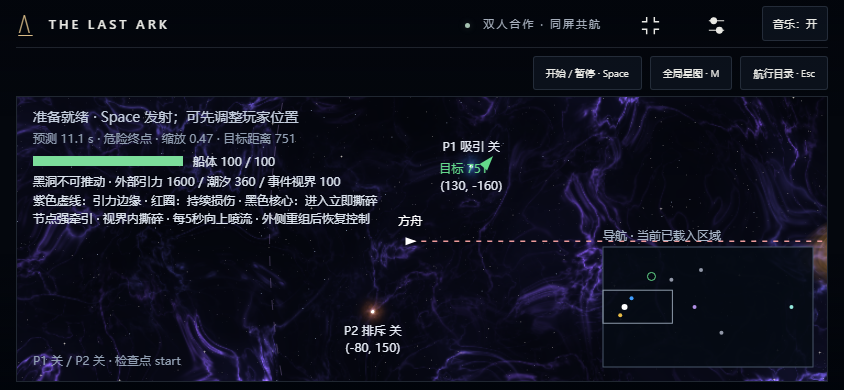
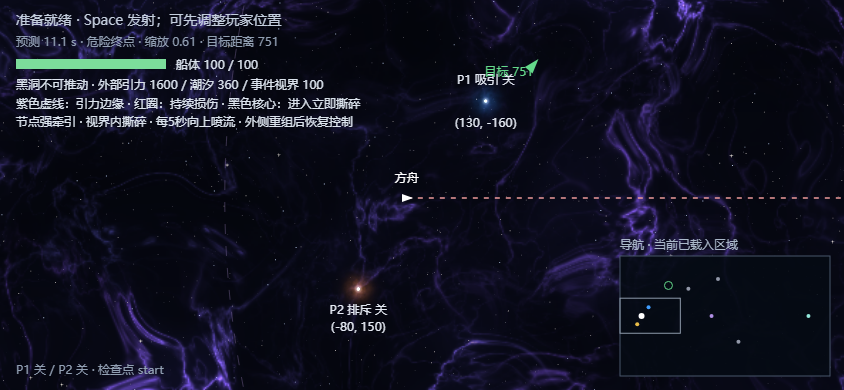
fix: make the game canvas itself fill fullscreen
Request fullscreen on the game canvas, remove surrounding webpage chrome, and move the control into game actions. Preserve Escape exit and existing input and audio state. Verify exact viewport coverage, landscape resizing and high DPI in development and production browsers.

diff --git a/index.html b/index.html
@@ -13,7 +13,7 @@
     <main>
       <header class="masthead">
         <button id="brand-home" class="brand" aria-label="返回封面"><span class="ark-mark" aria-hidden="true">Λ</span><span>THE LAST ARK<small>最后的方舟</small></span></button>
-        <div class="header-right"><span class="connection"><i></i> 双人合作 · 同屏共航</span><button id="fullscreen-toggle" class="icon-button" type="button" aria-label="进入全屏" aria-pressed="false" title="进入全屏"><svg viewBox="0 0 24 24" fill="none" stroke="currentColor" stroke-width="1.5" aria-hidden="true"><path class="fullscreen-expand" d="M8 3H3v5M16 3h5v5M3 16v5h5M21 16v5h-5"/><path class="fullscreen-contract" d="M3 8h5V3M21 8h-5V3M8 21v-5H3M16 21v-5h5"/></svg></button><button id="open-settings" class="icon-button" aria-label="操作设置"><svg viewBox="0 0 24 24" fill="none" stroke="currentColor" stroke-width="1.2" aria-hidden="true"><path d="M4 7h16M4 17h16"/><circle cx="9" cy="7" r="3" fill="currentColor"/><circle cx="15" cy="17" r="3" fill="currentColor"/></svg></button></div>
+        <div class="header-right"><span class="connection"><i></i> 双人合作 · 同屏共航</span><button id="open-settings" class="icon-button" aria-label="操作设置"><svg viewBox="0 0 24 24" fill="none" stroke="currentColor" stroke-width="1.2" aria-hidden="true"><path d="M4 7h16M4 17h16"/><circle cx="9" cy="7" r="3" fill="currentColor"/><circle cx="15" cy="17" r="3" fill="currentColor"/></svg></button></div>
       </header>
 
       <section id="cover" aria-labelledby="cover-title">
@@ -47,7 +47,7 @@
       </section>
 
       <section id="game-shell" hidden aria-label="游戏">
-        <nav class="scene-nav" aria-label="当前章节"><div><span class="eyebrow">IN FLIGHT / 航行中</span><strong id="scene-name"></strong></div><div class="scene-actions"><button id="pause-game" type="button">开始 / 暂停 · Space</button><button id="star-map" type="button" hidden>全局星图 · M</button><button id="next-chapter" type="button" hidden>继续航程</button><button id="back-menu" type="button" hidden>航行目录 · Esc</button></div></nav>
+        <nav class="scene-nav" aria-label="当前章节"><div><span class="eyebrow">IN FLIGHT / 航行中</span><strong id="scene-name"></strong></div><div class="scene-actions"><button id="fullscreen-toggle" type="button" aria-label="游戏画面全屏" aria-pressed="false" title="游戏画面全屏 · Esc 退出">画面全屏</button><button id="pause-game" type="button">开始 / 暂停 · Space</button><button id="star-map" type="button" hidden>全局星图 · M</button><button id="next-chapter" type="button" hidden>继续航程</button><button id="back-menu" type="button" hidden>航行目录 · Esc</button></div></nav>
         <div id="exploration-tools" hidden><label>宇宙 Seed <input id="universe-seed" type="number" min="0" max="4294967295" step="1" value="20261017"></label><button id="new-universe" type="button">开始新探索</button><button id="save-universe" type="button">保存探索 · K</button><button id="load-universe" type="button">恢复探索 · L</button><span id="exploration-notice" role="status"></span></div>
         <section id="lesson" hidden aria-label="当前教学提示"><div id="lesson-progress" class="sr-only"></div><p id="lesson-text" class="sr-only" role="status" aria-live="polite"></p><button id="skip-lesson" type="button" hidden>跳过当前提示（调试）</button></section>
         <p id="telemetry" role="status" aria-live="off"></p>

diff --git a/src/style.css b/src/style.css
@@ -148,24 +148,8 @@ kbd { width: 85px; font-size: 10px; border: 1px solid var(--line); text-align: c
 @media (max-width: 450px) { main { padding: 0 20px; } .cover-description { font-size: 12px; letter-spacing: 3.5px; } .chapter-panel { padding: 2px 0 0; } .panel-heading h3 { font-size: 27px; letter-spacing: 7px; } .journey-count { font-size: 29px; } .level-card { gap: 12px; padding: 17px 14px; } .chapter-number { font-size: 21px; width: 28px; } .chapter-copy strong { font-size: 19px; } .chapter-state { font-size: 13px; } .chapter-description { font-size: 13px; } .menu-notice { font-size: 12.5px; } dialog { padding: 24px 20px; } .device-grid { grid-template-columns: 1fr; gap: 8px; } }
 @media (prefers-reduced-motion: reduce) { *, *::before, *::after { animation: none !important; transition: none !important; scroll-behavior: auto !important; } }
 
-/* Fullscreen keeps navigation/settings available and gives the remaining height to the canvas. */
-#fullscreen-toggle .fullscreen-contract, #fullscreen-toggle[aria-pressed='true'] .fullscreen-expand { display: none; }
-#fullscreen-toggle[aria-pressed='true'] .fullscreen-contract { display: block; }
+/* The canvas itself occupies the entire native fullscreen surface. */
+#game:fullscreen { display: block; width: 100vw; height: 100vh; min-width: 0; min-height: 0; max-width: none; max-height: none; margin: 0; padding: 0; border: 0; border-radius: 0; background: #050a12; outline: none; }
+#game::backdrop { background: #050a12; }
 #fullscreen-notice { position: fixed; bottom: 18px; left: 50%; transform: translateX(-50%); z-index: 50; max-width: calc(100% - 32px); padding: 12px 18px; border: 1px solid var(--line); border-radius: 4px; background: #101b2e; color: #e0c79e; font-size: 13px; }
 #fullscreen-notice:empty { display: none; }
-html:fullscreen { background: #04070d; }
-html:fullscreen body[data-screen='game'] { overflow: hidden; }
-html:fullscreen body[data-screen='game'] main { width: 100%; height: 100dvh; padding: 0 16px; display: flex; flex-direction: column; }
-html:fullscreen body[data-screen='game'] .masthead { height: 48px; flex: 0 0 48px; }
-html:fullscreen body[data-screen='game'] .brand small, html:fullscreen body[data-screen='game'] .scene-nav .eyebrow { display: none; }
-html:fullscreen body[data-screen='game'] .ark-mark { font-size: 25px; }
-html:fullscreen #game-shell { flex: 1; min-height: 0; padding: 8px 0; display: flex; flex-direction: column; gap: 6px; }
-html:fullscreen .scene-nav { flex-direction: row; align-items: center; flex-shrink: 0; }
-html:fullscreen .scene-nav strong { margin-top: 0; font-size: 12px; }
-html:fullscreen #telemetry { margin: 0; min-height: 15px; }
-html:fullscreen .game-frame { flex: 1; min-height: 0; padding: 0; overflow: hidden; }
-html:fullscreen #game { width: 100%; height: 100%; min-height: 0; }
-html:fullscreen #controls { padding: 2px 0; gap: 10px; border: 0; font-size: 10px; }
-html:fullscreen body[data-screen='game'] .site-footer, html:fullscreen #help, html:fullscreen #debug, html:fullscreen #art-debug, html:fullscreen #hazard-debug { display: none; }
-@media (max-width: 450px) { .brand { font-size: 11px; letter-spacing: 1.5px; gap: 8px; } .brand small { letter-spacing: 3px; } .header-right { gap: 5px; } .header-right .icon-button { width: 30px; } }
-@media (max-height: 540px), (max-width: 600px) { html:fullscreen #controls, html:fullscreen #telemetry, html:fullscreen .scene-nav > div:first-child { display: none; } html:fullscreen .scene-nav { justify-content: flex-end; } }

diff --git a/src/render/fullscreen.ts b/src/render/fullscreen.ts
@@ -1,14 +1,14 @@
 /** Fullscreen belongs to presentation; simulation and camera scaling stay in main. */
-export function mountFullscreen(button: HTMLButtonElement, notice: HTMLElement, onChange: () => void) {
-  const doc = button.ownerDocument, root = doc.documentElement;
+export function mountFullscreen(canvas: HTMLCanvasElement, button: HTMLButtonElement, notice: HTMLElement, onChange: () => void) {
+  const doc = canvas.ownerDocument;
   let pending = false, disposed = false, wasFullscreen = !!doc.fullscreenElement, exitedAt = -Infinity;
   let noticeTimer: ReturnType<typeof setTimeout> | undefined;
-  const supported = !!doc.fullscreenEnabled && typeof root.requestFullscreen === 'function';
+  const supported = !!doc.fullscreenEnabled && typeof canvas.requestFullscreen === 'function';
   function sync() {
     const active = !!doc.fullscreenElement;
     button.setAttribute('aria-pressed', String(active));
-    button.setAttribute('aria-label', active ? '退出全屏' : '进入全屏');
-    button.title = supported ? (active ? '退出全屏 · Esc' : '进入全屏') : '当前浏览器不支持全屏';
+    button.setAttribute('aria-label', active ? '退出游戏画面全屏' : '游戏画面全屏');
+    button.title = supported ? (active ? '退出游戏画面全屏 · Esc' : '游戏画面全屏 · Esc 退出') : '当前浏览器不支持全屏';
     button.disabled = !supported || pending;
   }
   function showFailure() {
@@ -22,7 +22,7 @@ export function mountFullscreen(button: HTMLButtonElement, notice: HTMLElement, 
     pending = true; notice.textContent = ''; sync();
     try {
       if (doc.fullscreenElement) await doc.exitFullscreen();
-      else await root.requestFullscreen();
+      else if (!canvas.hidden) await canvas.requestFullscreen();
     } catch { showFailure(); }
     finally { pending = false; if (!disposed) sync(); }
   }

diff --git a/src/main.ts b/src/main.ts
@@ -146,7 +146,7 @@ function resize(): void {
   canvas.width = Math.round(rect.width * dpr); canvas.height = Math.round(rect.height * dpr);
 }
 const observer = new ResizeObserver(resize); observer.observe(canvas); resize();
-const fullscreen = mountFullscreen(document.querySelector<HTMLButtonElement>('#fullscreen-toggle')!, document.querySelector<HTMLElement>('#fullscreen-notice')!, () => {
+const fullscreen = mountFullscreen(canvas, document.querySelector<HTMLButtonElement>('#fullscreen-toggle')!, document.querySelector<HTMLElement>('#fullscreen-notice')!, () => {
   inputs.releaseMovement(); keyboard.releaseKeys(); clock.reset();
   if (scenes.game && !ui.settingsOpen()) canvas.focus({preventScroll:true});
 });

diff --git a/docs/ui-import/README.md b/docs/ui-import/README.md
@@ -20,7 +20,7 @@
 - 动态星空封面、启程入口、章节目录、故事航线与自由回溯。
 - 章节解锁与进度保存、操作设置弹窗、暂停与返回按钮。
 - BGM 保持同一音频实例跨菜单/场景播放，右上角保留音乐开关。
-- 右上角四角图标进入/退出全屏，封面、目录和游戏内均可使用。游戏全屏时画布占满剩余高度，保留设置和航行按钮；Esc 先退出全屏，不同时离开当前关卡。设置弹窗打开时先处理弹窗。
+- 进入关卡后点击「画面全屏」，游戏 canvas 本身铺满整个屏幕，网页导航与说明均不显示。Esc 退出后保留当前关卡；Space、M 及双人控制继续可用。
 - 现有黑洞吸积盘、危险机制、太阳波、虫洞渲染与双人控制代码保留。118 个备份文件逐个文本比对相同；其余变化仅为 UI 合并和测试兼容修复。详见 source-and-preservation.json。
 
 ## 验证
@@ -28,7 +28,7 @@
 - npm run check：31 个测试文件、473 项测试通过，TypeScript 与 Vite 生产构建通过。
 - Edge 浏览器实测：封面、章节锁、教程入口、设置窗口、Escape 关闭、弹窗键盘隔离、音乐跨场景连续播放、循环与开关、390px 窄屏无横向溢出。15 项断言通过，运行时错误 0。
 - 生产构建另行验证，详见 production-verification.json。测试时的临时进度数据已恢复。
-- 全屏浏览器验收：13 项断言通过，包含原生全屏进入/退出、画布分辨率、低高度横屏、设置弹窗、音乐实例保持和请求失败提示。详见 fullscreen-verification.json 与 fullscreen-game.png。
+- 画面全屏浏览器验收：开发版与生产版分别 14 项断言通过。画布起点为 (0, 0)，宽高精确等于视口，四角均为游戏画面；同时验证 Esc、星图、高 DPI、横屏、音乐保持和失败重试。详见 fullscreen-verification.json、canvas-fullscreen-production.json 和 fullscreen-game.png。
 - 旧特效关闭基线：太阳系/黑洞冷缓存与热缓存均为 0 个字节差异；两端喷流在三档缩放下均可见；虫洞轨迹仍可辨。
 - 截图：cover.png、chapters.png、settings.png、tutorial.png、cover-mobile.png、chapters-mobile.png、black-hole-game.png。
 

diff --git a/docs/ui-import/FULLSCREEN.md b/docs/ui-import/FULLSCREEN.md
@@ -1,7 +1,7 @@
 # 全屏模式
 
-封面、章节目录及游戏右上角的四角按钮切换浏览器原生全屏。进入全屏后，游戏会缩短顶部栏，将剩余高度分配给画布；画布像素尺寸继续由 ResizeObserver 与 devicePixelRatio 更新，不拉伸旧截图。低高度横屏自动隐藏次要说明。
+进入关卡后，点击航行操作区的「画面全屏」。请求全屏的元素是游戏 canvas 本身：画面从 (0, 0) 延伸到屏幕右下角，保留游戏内 HUD，不显示网页标题、导航、音乐按钮、操作说明、页脚或外侧边框。封面与目录不提供网页全屏按钮。
 
-再次点击按钮或按 Esc 退出。退出全屏的同一次 Esc 不会触发返回目录；设置弹窗打开时先处理弹窗。全屏切换不会重建关卡、改变碰撞或创建新的音乐实例。游戏焦点恢复到画布，移动按键释放以防卡键。浏览器不支持时禁用按钮；请求被拒绝时显示提示并允许重试。
+按 Esc 退出画面全屏，并留在当前关卡；随后可使用普通窗口里的设置与航行按钮。Space 暂停、M 星图及双人控制在全屏内继续工作。画布像素尺寸通过 ResizeObserver 和 devicePixelRatio 更新，支持横屏、窗口尺寸变化与高 DPI。全屏切换不会重建关卡、改变碰撞或创建新的音乐实例；移动按键释放以防卡键。浏览器不支持时禁用按钮；请求被拒绝时显示提示并允许重试。
 
-浏览器验收 13 项通过，见 fullscreen-verification.json。已检查 fullscreen-game.png、fullscreen-landscape.png 和 fullscreen-mobile-header.png。完整测试仍为 31 个测试文件 / 473 项通过，TypeScript 检查与生产构建通过。
+开发版与生产版分别通过 14 项浏览器断言，见 fullscreen-verification.json 和 canvas-fullscreen-production.json。验收要求画布 x/y 都为 0、宽高与视口相等、四个屏幕角均命中画布。实测 1440×1000 与 844×390 都完全填满；1200×800 / 2×DPI 的绘图缓冲为 2400×1600。已实际打开 fullscreen-game.png、fullscreen-landscape.png 及 production-fullscreen.png 检查。完整测试仍为 31 个测试文件 / 473 项通过，TypeScript 检查与生产构建通过。
